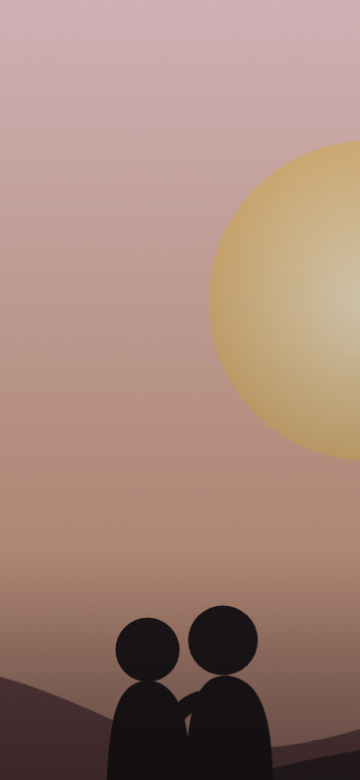
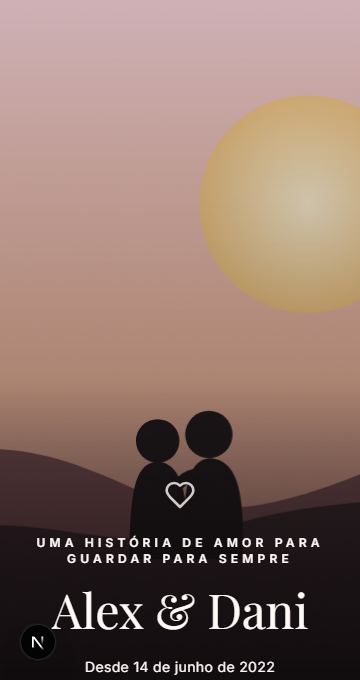
fix: melhora a prévia do celular no hero da home
O recorte anterior da prévia do modelo (hero-preview.png) só mostrava o
fundo da capa (sol/silhueta), cortando antes de chegar ao título "Alex &
Dani" e à data — parecia uma foto solta, não a tela de um app real.
Recaptura com viewport mais baixo para a capa (80vh) caber inteira no
recorte. O PhoneMockup também ganhou moldura escura, notch e indicador
de home para parecer de fato um aparelho.

diff --git a/src/app/(marketing)/page.tsx b/src/app/(marketing)/page.tsx
@@ -119,7 +119,7 @@ function FloatingTag({ label }: { label: string }) {
 
 function PhoneMockup() {
   return (
-    <div className="h-[460px] w-[230px] rounded-[2.5rem] border border-border bg-card p-3 shadow-sm">
+    <div className="h-[460px] w-[230px] rounded-[2.5rem] bg-[#1c1719] p-[10px] shadow-xl ring-1 ring-black/10">
       <div className="relative h-full w-full overflow-hidden rounded-[2rem] bg-background">
         <Image
           src="/marketing/hero-preview.png"
@@ -129,6 +129,10 @@ function PhoneMockup() {
           priority
           className="object-cover object-top"
         />
+        {/* Notch */}
+        <div className="absolute left-1/2 top-2 h-4 w-20 -translate-x-1/2 rounded-full bg-black/80" />
+        {/* Indicador de home */}
+        <div className="absolute bottom-1.5 left-1/2 h-1 w-20 -translate-x-1/2 rounded-full bg-white/70" />
       </div>
     </div>
   );
